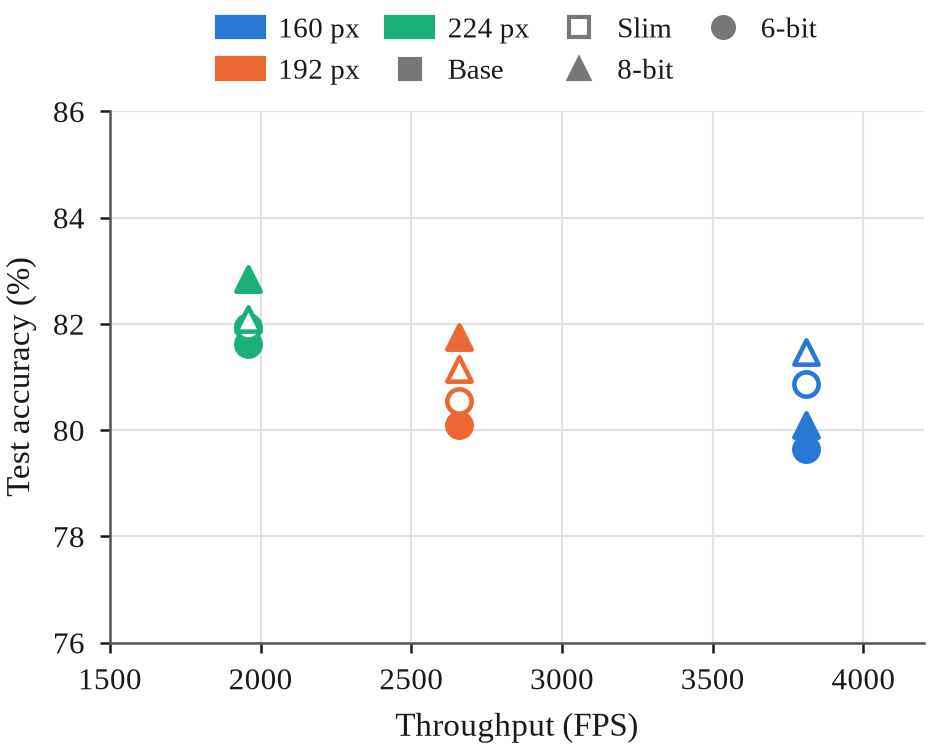
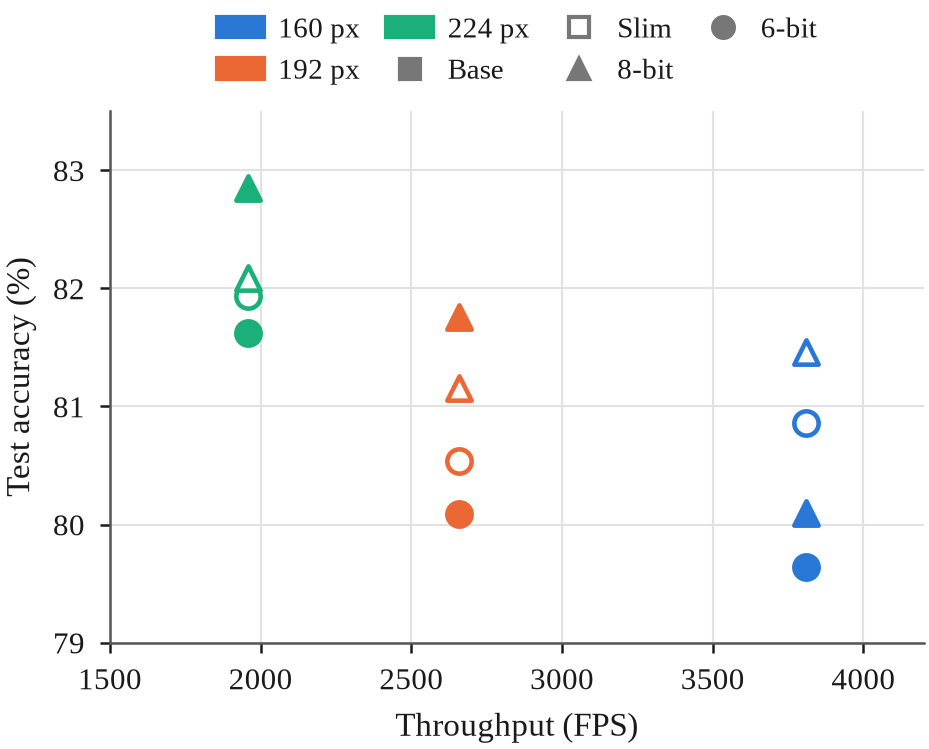
Figures: drop the throughput bar chart; accuracy vs throughput on 79-83.5%; new accuracy vs LUT/BRAM for the minimum-area builds

diff --git a/scripts/make_figures.py b/scripts/make_figures.py
@@ -47,6 +47,7 @@ QAT_TEACHER = "r18_ta"
 RES_COLORS = {160: "#2a78d6", 192: "#eb6834", 224: "#1baf7a"}
 INK, INK_2, GRID = "#1a1a1a", "#555555", "#e2e2e2"
 HATCH = "//////"
+ACC_YLIM = (79, 83.5)  # QAT accuracy range of the 12 built configurations
 COLUMN, TEXT_WIDTH = 3.5, 7.16  # IEEEtran conference, inches
 
 # Xilinx Alveo U250 device totals.
@@ -253,52 +254,58 @@ def max_throughput_builds(builds):
     return sorted(peaks, key=lambda b: (order[(b["precision"], b["architecture"])], b["resolution"]))
 
 
-def fig_u250_throughput(builds, out):
-    """Maximum throughput reached by each configuration on the U250."""
-    peaks = max_throughput_builds(builds)
-    fig, ax = plt.subplots(figsize=(COLUMN, 2.0))
-    xs, ticks, gap = [], [], 0
-    for i, b in enumerate(peaks):
-        if i and b["precision"] != peaks[i - 1]["precision"]:
-            gap += 0.6
-        x = i + gap
-        xs.append(x)
-        bar(ax, x, {"mean": b["throughput_fps"]}, 0.7, b["resolution"], b["architecture"], interval=False, value=False)
-        ax.text(x, b["throughput_fps"] + 60, f"{b['throughput_fps']:,.0f}", ha="center", va="bottom", fontsize=6.5)
-    for precision in ("6w6a", "8w8a"):
-        group = [x for x, b in zip(xs, peaks) if b["precision"] == precision]
-        ticks.append((np.mean(group), PRECISION_NAMES[precision]))
-    ax.set_xticks([p for p, _ in ticks], [n for _, n in ticks])
-    ax.set_ylim(0, 4400)
-    finish_axes(ax, "Throughput (FPS)")
-    handles, labels = legend_handles()
-    ax.legend(handles, labels, ncol=5, loc="lower center", bbox_to_anchor=(0.5, 1.0), columnspacing=0.8)
-    save(fig, out, "u250_max_throughput")
+def accuracy_points(ax, builds, stats, x_key):
+    """One marker per minimum-area build at (x_key, mean QAT accuracy); returns the plotted rows."""
+    rows = []
+    for b in builds:
+        s = stats[(b["architecture"], b["resolution"], b["precision"])]["accuracy"]
+        color = RES_COLORS[b["resolution"]]
+        base = b["architecture"] == "test_resnet"
+        ax.scatter(b[x_key], s["mean"], marker=BIT_MARKERS[b["precision"]], s=34, zorder=3,
+                   facecolor=color if base else "white", edgecolor=color, linewidth=1.1)
+        rows.append({"build": b["build"], "architecture": b["architecture"], "resolution": b["resolution"],
+                     "precision": b["precision"], x_key: b[x_key], **s})
+    return rows
+
+
+def accuracy_axis(ax):
+    ax.set_ylim(*ACC_YLIM)
+    ax.set_yticks(range(math.ceil(ACC_YLIM[0]), math.floor(ACC_YLIM[1]) + 1))
+    ax.grid(color=GRID, linewidth=0.5, zorder=0)
 
 
 def fig_u250_accuracy_vs_throughput(builds, runs, out):
     """QAT accuracy (TA teacher, 5 seeds) against the maximum U250 throughput of the same configuration."""
     stats = summarize(runs, ("architecture", "resolution", "precision"))
     fig, ax = plt.subplots(figsize=(COLUMN, 2.3))
-    rows = []
-    for b in max_throughput_builds(builds):
-        s = stats[(b["architecture"], b["resolution"], b["precision"])]["accuracy"]
-        color = RES_COLORS[b["resolution"]]
-        base = b["architecture"] == "test_resnet"
-        ax.scatter(b["throughput_fps"], s["mean"], marker=BIT_MARKERS[b["precision"]], s=34, zorder=3,
-                   facecolor=color if base else "white", edgecolor=color, linewidth=1.1)
-        rows.append({"build": b["build"], "architecture": b["architecture"], "resolution": b["resolution"],
-                     "precision": b["precision"], "throughput_fps": b["throughput_fps"], **s})
+    rows = accuracy_points(ax, max_throughput_builds(builds), stats, "throughput_fps")
     ax.set_xlim(1500, 4200)
-    ax.set_ylim(76, 86)
-    ax.set_yticks(range(76, 87, 2))
+    accuracy_axis(ax)
     ax.set_xlabel("Throughput (FPS)")
     ax.set_ylabel("Test accuracy (%)")
-    ax.grid(color=GRID, linewidth=0.5, zorder=0)
     handles, labels = legend_handles(bits=True, markers=True)
     ax.legend(handles, labels, ncol=4, loc="lower center", bbox_to_anchor=(0.5, 1.0), columnspacing=0.9)
     save(fig, out, "u250_accuracy_vs_throughput")
     return rows
+
+
+def fig_u250_accuracy_vs_area(builds, runs, out):
+    """QAT accuracy against LUT and BRAM use of the minimum-area build of each configuration."""
+    stats = summarize(runs, ("architecture", "resolution", "precision"))
+    fig, axes = plt.subplots(1, 2, figsize=(COLUMN, 2.3), sharey=True, gridspec_kw={"wspace": 0.12})
+    rows = {}
+    for ax, resource, xlim in ((axes[0], "LUT", (13, 16.5)), (axes[1], "BRAM", (11, 27))):
+        for row in accuracy_points(ax, max_throughput_builds(builds), stats, f"{resource}_pct"):
+            rows.setdefault(row["build"], {}).update(row)
+        ax.set_xlim(*xlim)
+        accuracy_axis(ax)
+        ax.set_xlabel(f"{resource} (% of U250)")
+    axes[0].set_ylabel("Test accuracy (%)")
+    axes[1].tick_params(axis="y", length=0)
+    handles, labels = legend_handles(bits=True, markers=True)
+    fig.legend(handles, labels, ncol=4, loc="lower center", bbox_to_anchor=(0.5, 0.895), columnspacing=0.9)
+    save(fig, out, "u250_accuracy_vs_area")
+    return list(rows.values())
 
 
 def fig_u250_slim_area(builds, out):
@@ -341,8 +348,8 @@ def main():
         fig_fp32_teachers(runs, out, metric, label)
         fig_qat_precision(ta_runs, out, metric, label, PRECISIONS[:3], (70, 90), "qat_precision")
         fig_qat_precision(ta_runs, out, metric, label, PRECISIONS, (50, 100), "qat_precision_with_4bit")
-    fig_u250_throughput(builds, out)
     acc_fps = fig_u250_accuracy_vs_throughput(builds, ta_runs, out)
+    acc_area = fig_u250_accuracy_vs_area(builds, ta_runs, out)
     area = fig_u250_slim_area(builds, out)
 
     by = ("architecture", "resolution", "teacher", "precision")
@@ -353,6 +360,7 @@ def main():
     write_csv(out / "data/paired_change_vs_fp32.csv", paired)
     write_csv(out / "data/u250_builds.csv", builds)
     write_csv(out / "data/u250_accuracy_vs_throughput.csv", acc_fps)
+    write_csv(out / "data/u250_accuracy_vs_area.csv", acc_area)
     write_csv(out / "data/u250_slim160_6bit_area.csv", area)
     print(f"Wrote {out}")
 

diff --git a/analysis/figures/README.md b/analysis/figures/README.md
@@ -33,17 +33,20 @@ narrowed to 128 and 64 channels (218k parameters). "8-bit"/"6-bit"/"4-bit" means
 **`qat_precision_with_4bit_accuracy`** (also `_f1_weighted`)
 > As above, including 4-bit QAT; the y-axis starts at 50%.
 
-**`u250_max_throughput`**
-> Maximum throughput of each configuration on the Alveo U250 (FINN dataflow accelerator at 100 MHz;
-> all 12 builds meet timing, so these are the on-board rates). Throughput depends only on input size:
-> the first layer takes one input pixel per clock, so the limit is 100 MHz / (H+2)² = 3,810, 2,657 and
-> 1,958 FPS at 160, 192 and 224 px, for both architectures and bit-widths. Each build reaches this limit
-> with the least parallelism FINN finds for it (minimum-area builds, see notes).
-
 **`u250_accuracy_vs_throughput`**
-> Mean QAT test accuracy (TA teacher, 5 seeds) against the maximum U250 throughput of each
-> configuration (`u250_max_throughput`). Configurations with the same input size share one
-> throughput; architecture and bit-width change accuracy and area, not speed.
+> Mean QAT test accuracy (TA teacher, 5 seeds) against the maximum throughput of each configuration on
+> the Alveo U250 (FINN dataflow accelerator at 100 MHz; all 12 builds meet timing, so these are the
+> on-board rates). Throughput depends only on input size: the first layer takes one input pixel per
+> clock, so the limit is 100 MHz / (H+2)² = 3,810, 2,657 and 1,958 FPS at 160, 192 and 224 px, for both
+> architectures and bit-widths. Each build reaches this limit with the least parallelism FINN finds for
+> it (minimum-area builds, see notes). The y-axis spans 79–83.5%.
+
+**`u250_accuracy_vs_area`**
+> Mean QAT test accuracy against the LUT (left) and BRAM (right) use of the same minimum-area builds, as %
+> of the U250 (post-synthesis, including the platform shell). At equal throughput, bit-width sets most of
+> the area: 8-bit needs ~1.8 points more LUTs and 1.5–1.7× the BRAM of 6-bit, while Slim saves ~0.4 LUT points
+> and 12–19% BRAM over Base. DSPs are not shown: every Base build uses 2,817 and every Slim build 2,573,
+> at all input sizes.
 
 **`u250_slim160_6bit_area_vs_throughput`**
 > U250 resources (post-synthesis, % of the device) used by Slim, 160 px, 6-bit, built for
